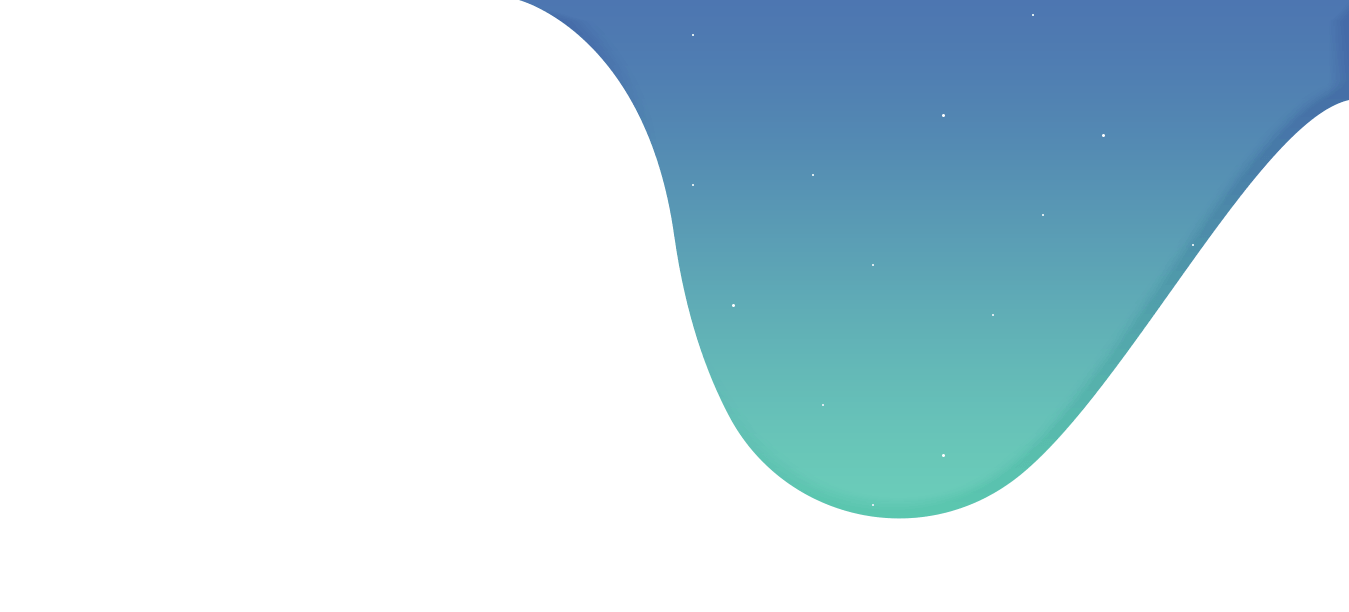
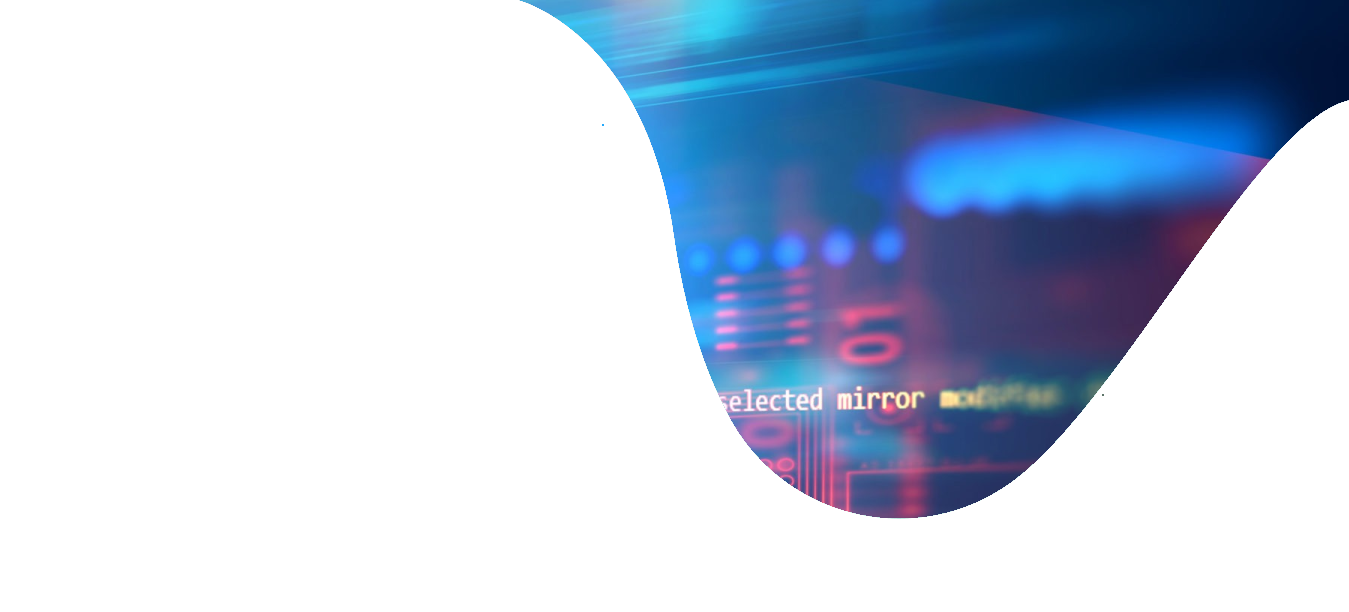
Change design Change project page Change main page (real image)

diff --git a/src/components/SiteMenu.js b/src/components/SiteMenu.js
@@ -51,9 +51,9 @@ class SiteMenu extends React.Component {
                                                             data-widget_type="image.default">
                                                             <div className="elementor-widget-container">
                                                                 <div className="elementor-image">
-                                                                    <img src={"images/bg-footer-new.png"}
+                                                                    <img src={"images/bg-footer-new2.png"}
                                                                          className="attachment-large size-large" alt=""
-                                                                         srcSet={"images/bg-footer-new.png"}
+                                                                         srcSet={"images/bg-footer-new2.png"}
                                                                          width="1024" height="541"/>
                                                                 </div>
                                                             </div>
@@ -108,7 +108,8 @@ class SiteMenu extends React.Component {
                                     <p className="language-left"><a href="mailto:olejek8@yandex.ru"
                                                                     rel="noopener noreferrer">Mail me</a> | <a
                                         href="http://olejek8@yandex.ru" rel="noopener noreferrer">Old site</a></p>
-                                    <p className="copy-right">COPYRIGHT © 2020 OLEJEK. ALL RIGHTS RESERVED.</p>
+                                    <p className="copy-right">COPYRIGHT © 2020 OLEJEK. This page based on Front
+                                        [React/Redux], Back [Laravel]</p>
                                 </div>
                             </aside>
                         </div>
@@ -151,8 +152,8 @@ class SiteMenu extends React.Component {
                                         <p className="mobile-policy-right"><a href="mailto:olejek8@yandex.ru">Mail
                                             me</a> | <a href="http://shtrm.ru" rel="noopener noreferrer">Old Site</a>
                                         </p>
-                                        <p className="mobile-copy-right">COPYRIGHT © 2020 OLEJEK. ALL RIGHTS
-                                            RESERVED.</p>
+                                        <p className="mobile-copy-right">COPYRIGHT © 2020 OLEJEK. This site based on
+                                            Front [React/Redux], Back [Laravel].</p>
                                     </div>
                                 </div>
                             </aside>

diff --git a/src/components/Project/index.js b/src/components/Project/index.js
@@ -14,6 +14,11 @@ class Project extends React.Component {
                 id: 1,
                 title: "loading",
                 description: "loading",
+                stack: "loading",
+                link: "loading",
+                role: "loading",
+                usage: "loading",
+                git: "loading",
                 created_at: "loading",
                 years: "loading"
             },
@@ -22,7 +27,6 @@ class Project extends React.Component {
     }
 
     componentWillReceiveProps(nextProps) {
-        console.log(nextProps);
         this.loadProject(nextProps.match.params.id);
     }
 
@@ -76,7 +80,7 @@ class Project extends React.Component {
                                                     <span className="byline">
                                     <span className="author vcard">
                                         <Link to={"/project/" + this.state.project.id} className="url fn n">
-                                            Olejek
+                                            {this.state.project.stack}
                                         </Link>
                                     </span>
                                 </span>
@@ -88,8 +92,8 @@ class Project extends React.Component {
                                     </div>
                                     <div className="entry-content">
                                         <p><span style={{fontWeight: 400}}>
-                        {this.state.project.description}
-                        </span>
+                                        {this.state.project.description}
+                                        </span>
                                         </p>
                                         <p><img src={'images/aoc.png'} alt="Avatar"
                                                 style={{width: '1024', height: '768'}}

diff --git a/src/components/Experience/Experience.js b/src/components/Experience/Experience.js
@@ -2,6 +2,7 @@ import React from 'react';
 import {inject} from "mobx-react/index";
 import Tag from "../Home/Tag";
 import {Link} from "react-router-dom";
+import ROOT from "../../index";
 
 class Experience extends React.Component {
     constructor(props) {
@@ -11,7 +12,7 @@ class Experience extends React.Component {
             description: 'description',
             isMounted: false,
             project: '',
-            project_image: '',
+            photo: '',
             tags: []
         };
     }
@@ -24,6 +25,7 @@ class Experience extends React.Component {
             //console.log(this.props.project);
             this.props.project.tags.forEach(function (tag, i) {
                 tags.push(<Tag tag={tag.title} key={i}/>);
+                tags.push(' ');
             });
             self.state.tags = tags;
         }
@@ -34,7 +36,7 @@ class Experience extends React.Component {
             <div className="col-md-4">
                 <div className="card" data-aos="fade-up">
                     <Link to={"/project/" + this.state.project.id}>
-                        <img src={'images/aoc.png'} alt="Avatar" style={{width: '100%'}}/>
+                        <img src={ROOT + this.state.project.photo} alt="img" style={{width: '100%'}}/>
                     </Link>
                     <Link to={"/project/" + this.state.project.id} className="ima_clickable" rel="bookmark">
                         <img className="link-img" src={"images/link.png"} alt="" width="52" height="52"/>

diff --git a/src/stores/projectStore.js b/src/stores/projectStore.js
@@ -11,8 +11,17 @@ export class ProjectStore {
         {
             id: 1,
             title: 'Проект #1',
+            title_en: 'Project #1',
+            title_de: 'Project #1',
             images: imageStore.images,
             description: 'Описание проекта',
+            description_en: 'Project description',
+            description_de: 'Projektbeschreibung',
+            git: '',
+            link: '',
+            stack: '',
+            role: '',
+            usage: '',
             tags: []
         };
 

diff --git a/src/index.js b/src/index.js
@@ -12,6 +12,7 @@ import imageStore from './stores/imageStore';
 import tagStore from "./stores/tagStore";
 import categoryStore from "./stores/categoryStore";
 
+const ROOT = 'http://svc.shtrm88.ru/uploads/';
 
 const stores = {
     projectStore,
@@ -34,3 +35,5 @@ ReactDOM.render((
         </HashRouter>
     </Provider>
 ), document.getElementById('page'));
+
+export default ROOT;

diff --git a/public/olejek2.css b/public/olejek2.css
@@ -35,7 +35,7 @@ h6 {
 }
 
 body {
-    font-size: 16px;
+    font-size: 14px;
 }
 
 .single .hentry .title-post {
